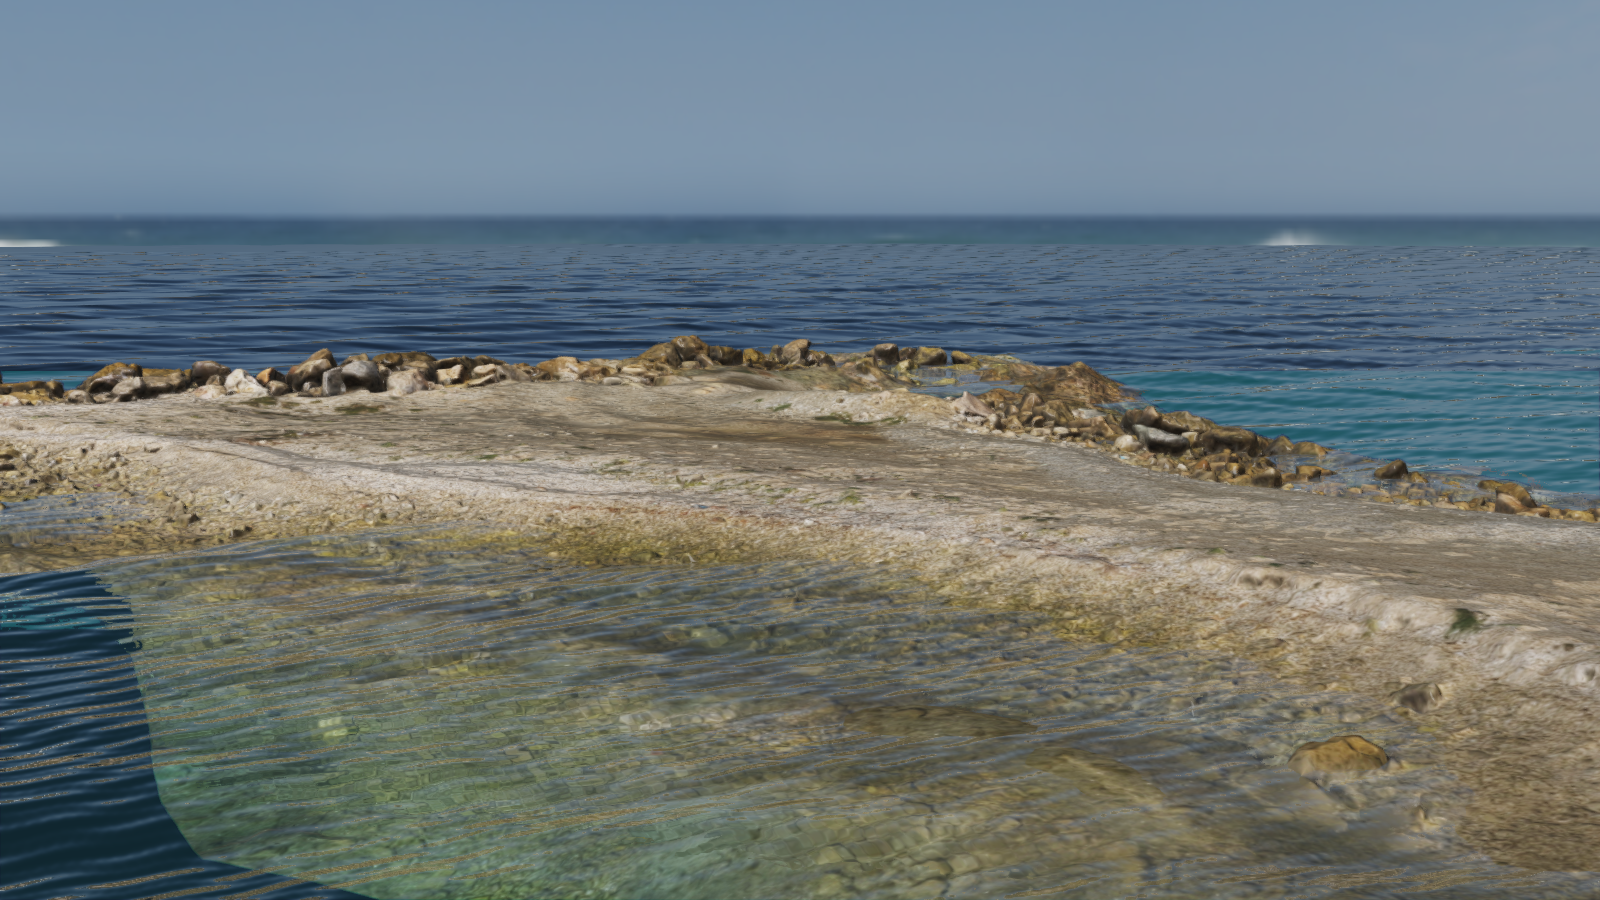
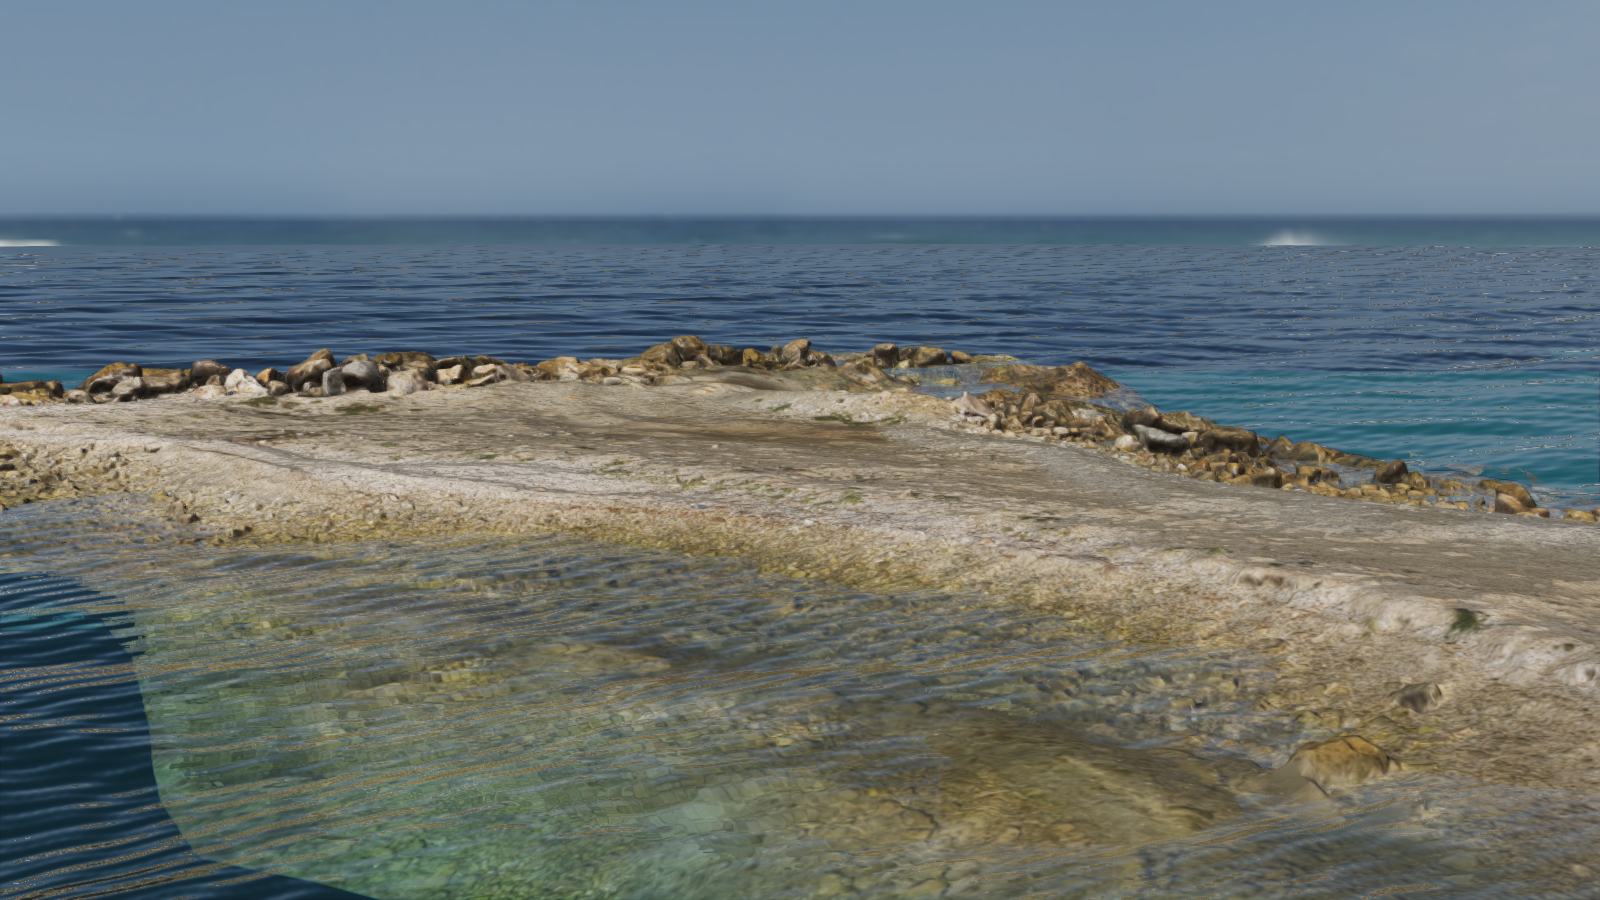
Correct fixed-clock coastal validation evidence

Changed region(s): [[0.0, 0.5289, 1.0, 1.0], [0.0, 0.28, 1.0, 0.5911], [0.6875, 0.9956, 0.7188, 1.0]]

diff --git a/docs/water-coastal-validation.md b/docs/water-coastal-validation.md
@@ -34,11 +34,22 @@ the flat plateau gains roughly 50000 changed pixels, the visible band edge moves
 0.8 meters across slope/camera changes, and the fine-pore probe finds only 31 crossings instead
 of the required 100. These controls retain the same geometric and frequency thresholds.
 
-## Historical optical study
+## Optical validation correction
+
+Earlier image metrics in this study are withdrawn: the preview helper changed the clock reset
+in recording shutdown instead of setting the clock before normal presentation. Those previews
+therefore used wall time. Automated render tests, internal video recordings and the frame-time
+benchmarks set their clocks independently and are unaffected. Replacement previews must pass
+a repeated-capture check before being used for image comparisons.
+
+## Matched optical study
 
 Both views use the same scanned coast, camera, sun, sky, seven-component wave field and
 0.5-second clock at 1600 by 900 pixels. Foam is disabled in both optical views. Exposure is
 0.8 with the same display transform; there is no alignment or exposure fitting.
+The corrected runtime capture is repeated in a separate process: the distant-water rectangle
+is pixel-identical, while five foreground pixels differ by one RGB byte. Its clock is set
+before normal frame presentation, independently of elapsed loading or rendering time.
 The reference uses Cycles with 32 samples, denoising, IOR 1.333, roughness 0.07 and the same
 absorption coefficients. Its isotropic volume scattering is a physical approximation of the
 runtime body-light term; atmospheric fog and derivative filtering do not have identical models.
@@ -62,12 +73,29 @@ removed from the result. Values below are computed from the lossless pictures ab
 
 | Region | Rectangle | RGB MAE | RGB SSIM |
 | --- | --- | ---: | ---: |
-| Distant water | [40, 260, 1560, 325] | 13.797 | 0.3061 |
-| Foreground water | [200, 740, 1350, 880] | 28.880 | 0.4300 |
+| Distant water | [40, 260, 1560, 325] | 10.213 | 0.5131 |
+| Foreground water | [200, 740, 1350, 880] | 29.062 | 0.6843 |
 
-A seven-wave preview without the new unresolved micro-normal variance measured 12.073 MAE /
-0.4081 SSIM in the distant rectangle. The current approximation regresses that comparison;
-its reflection filtering remains under investigation before visual acceptance.
+These values replace the withdrawn wall-clock comparisons. They do not establish photographic
+acceptance or a causal improvement over earlier shader variants, which need fresh timed captures.
+
+A separate normal-field control keeps the camera, displaced mesh, material, illumination and
+display transform, but replaces smooth mesh normals plus bump with the analytic total macro/micro
+height gradient. Its normal is oriented per incoming ray, matching
+[Cycles' geometry-normal convention](https://github.com/blender/blender/blob/v4.5.3/intern/cycles/kernel/geom/shader_data.h#L98-L104).
+Independent finite differences check that gradient. This control addresses mesh normal
+undersampling; it does not make the runtime's BSDF, screen-space visibility or fog identical.
+
+![Analytic-normal control, 96 samples](images/water-coastal/reference-analytic96.png)
+
+| Region | Runtime versus analytic-normal control: RGB MAE | RGB SSIM |
+| --- | ---: | ---: |
+| Distant water | 10.415 | 0.5643 |
+| Foreground water | 28.459 | 0.7075 |
+
+The control's 32-versus-96 sample difference is 3.371 MAE / 0.9280 SSIM at distance and
+2.580 / 0.9482 in the foreground. Sampling error is not zero; small candidate deltas need
+further integration checks. Both the original reference and this control are retained.
 
 ## Correctness controls
 
@@ -80,9 +108,10 @@ its reflection filtering remains under investigation before visual acceptance.
 - Require a soft, irregular foam band, open water pockets and partial bottom transmission.
 - Check displacement bounds, analytic gradients, stationary clocks and filtered normal energy.
 
-The full render suite passed 76 cases and 655593 assertions. Unit checks passed 1215 cases
-and 42068 assertions. Local shader-validation binaries rebuild shader construction and changed
-tests while reusing unchanged CPU libraries. Clean builds remain a CI requirement.
+The current full render suite passed 83 cases and 655739 assertions. The previous full unit
+run passed 1215 cases; the current shader-generation checks pass 14 cases and 147 assertions.
+Local shader-validation binaries rebuild shader construction and changed tests while reusing
+unchanged CPU libraries. Clean builds remain a CI requirement.
 The actual GLES shader pairs for lighting, motion, depth, particle shadows and temporal resolve
 all compiled and linked on a native GLES context. This does not replace an Android package build.
 
@@ -106,12 +135,10 @@ Both peak and projected mass checks pass on NVIDIA and software rendering. Resto
 old denominator fails all eight peak/mass checks. Foam envelope checks average 21 shoreline
 profiles so individual pores cannot determine band width; the existing width, softness and
 independent porosity requirements remain unchanged.
-The updated full render suite passes 77 cases and 655602 assertions; formatting and C++ lint
-also pass. The correction received a separate correctness review before publication.
+The correction received a separate correctness review before publication.
 
-The optical-study pictures, optical metrics and frame times below precede this normalization
-correction and the horizontal shore band. They remain historical evidence. The shore-band picture
-above uses both corrections.
+The corrected runtime pictures include both this correction and the horizontal shore band.
+Foam is disabled for the optical comparison and enabled for the separate shore-band picture.
 
 ## Shore-band cost
 
